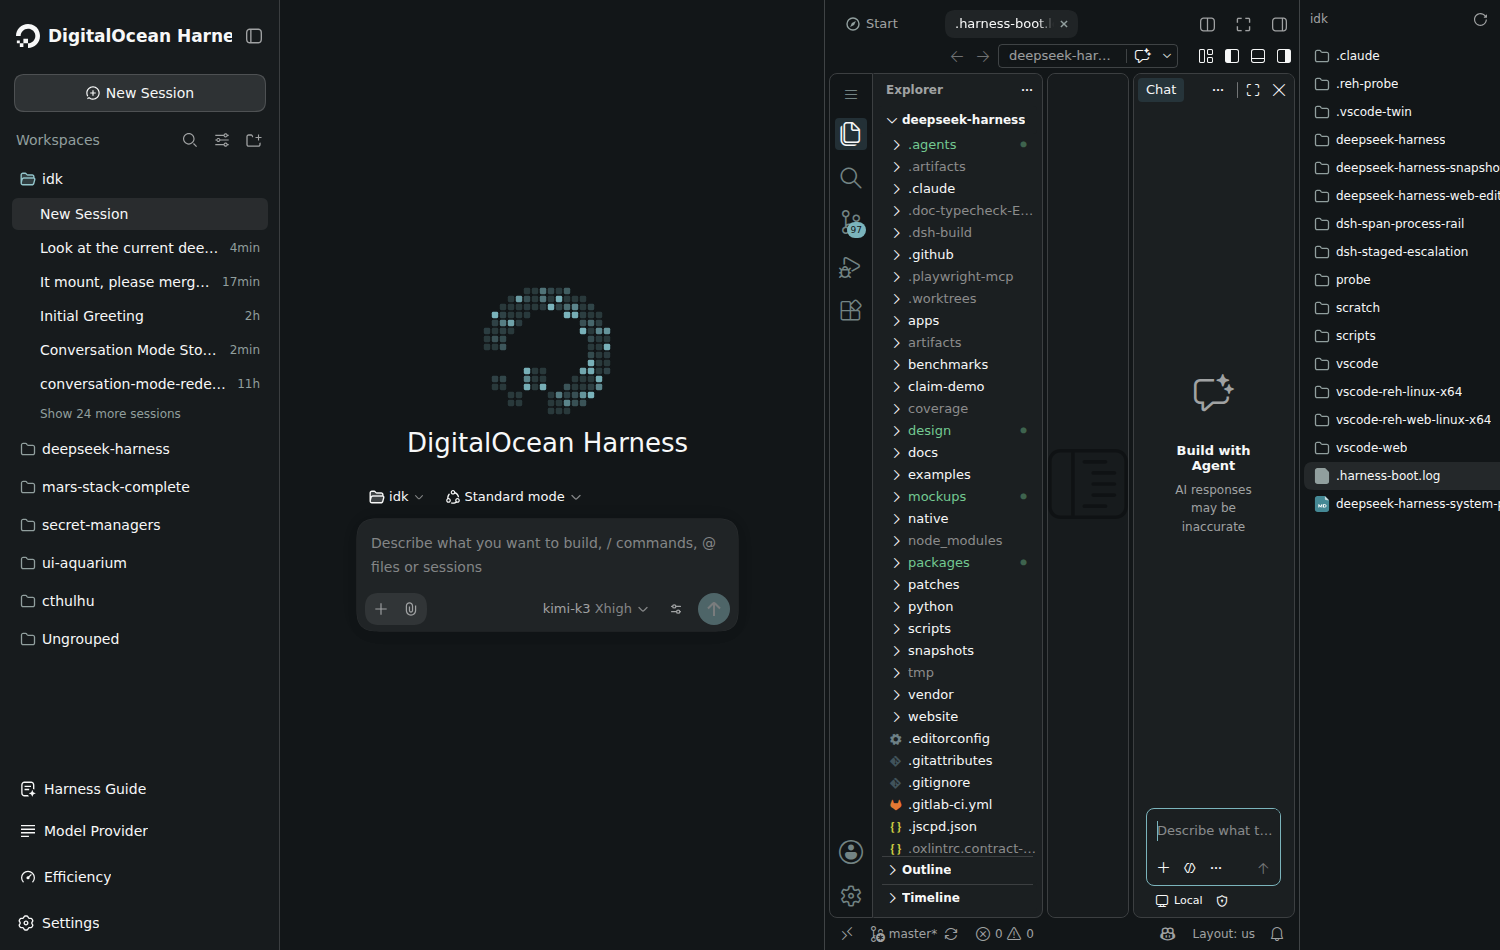
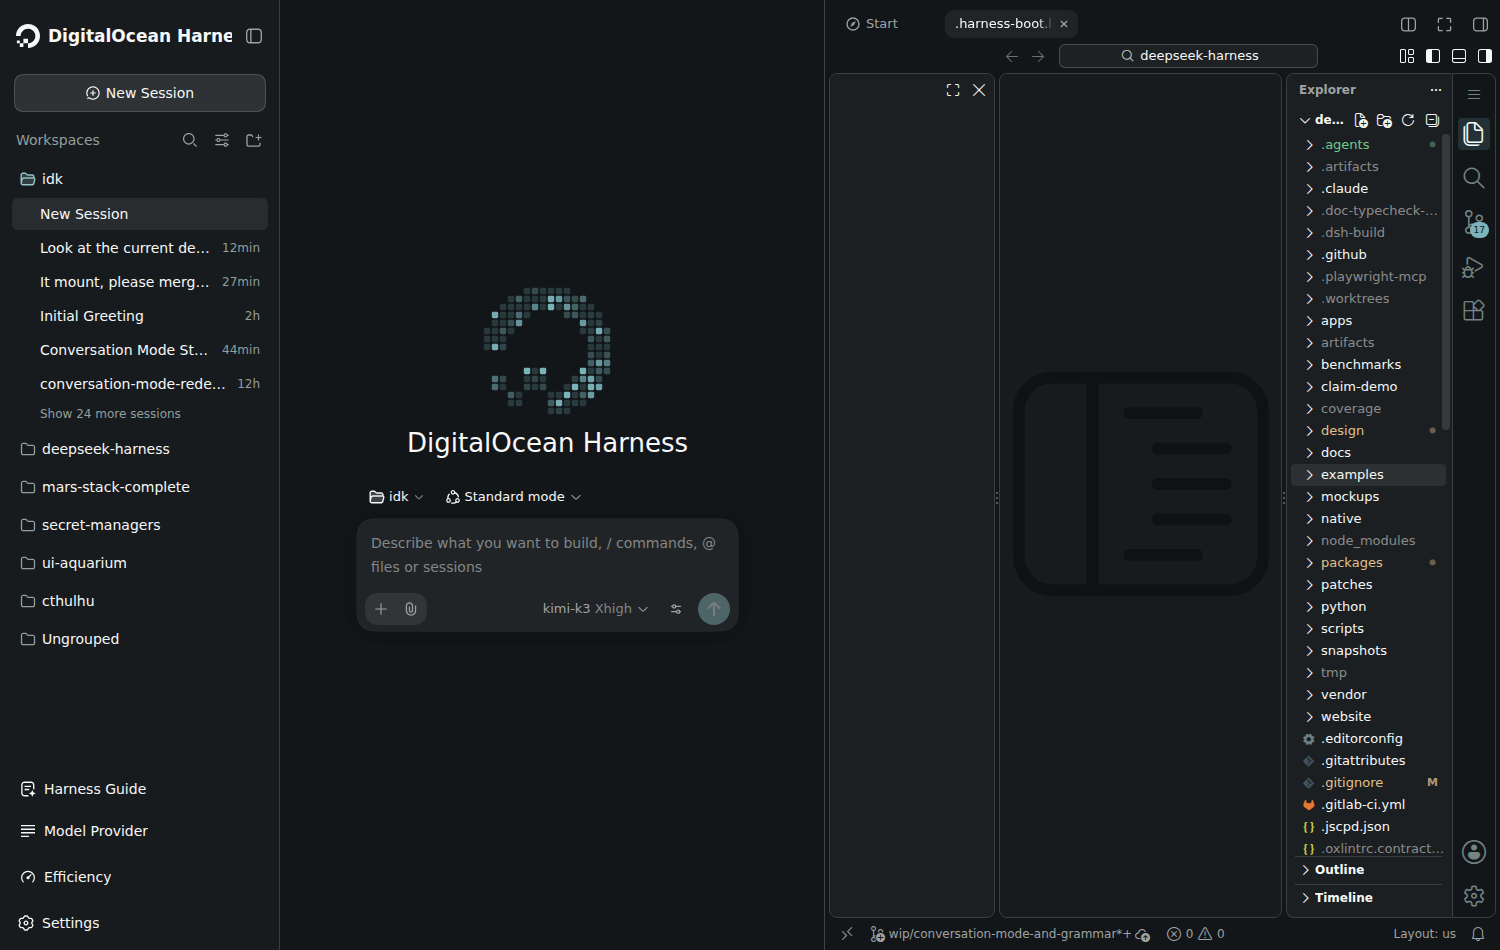
feat(ide): round-2 DO chrome — depth, no chat, right sidebar, twinkle seam
Twin identity second pass, informed by review of the first skin:

- twin-theme: hairline dividers (6%) and half-alpha focus rings replace the
  stock heavy outlines; breadcrumbs/sticky-scroll/peekView pick up the
  harness depth scale; menu/quickInput match the module platform.
- Editor-only twin: chat.disableAIFeatures + hidden agents pill + hidden aux
  bar — the harness is the conversation, the twin is the editor.
- Sidebar right: position is stored UI state, so the staged extension gains
  a onStartupFinished boot script (extension.cjs) that fires the
  deterministic workbench.action.moveSideBarRight once per profile and
  records it in globalState; manual moves win after that.
- ui-sidebar-right: the sidebar.right.explorer column empties itself while
  a vscode tab is mounted in the session — the twin's own tree takes over
  and the harness tree returns when the last vscode tab closes.
- ui-vscode: the boot seam is a DO twinkle hero (PixelLoader twinkle over
  the wordmark) for the spawn window instead of a bare text line; adds the
  ui-primitives dev link.
- design/: refreshed after/context captures + new boot-seam capture; note
  documents the round-2 moves.
- chore: deepen src-artifact ignore patterns to nested package layouts.

Live verification on this tree: 152 client specs green; DOM probes show
activity rail on the right, no chat view containers/aux bar, explorer gate
toggles with tab mount, wordmark seam renders before iframe paint.

diff --git a/packages/api/ide/src/twin-theme.ts b/packages/api/ide/src/twin-theme.ts
@@ -61,21 +61,25 @@ export const DO_THEME_COLORS: Record<string, string> = {
   'editor.lineHighlightBackground': '#f7f8f80a',
   'editor.selectionBackground': '#2e434bcc',
   'editorCursor.foreground': '#7bb4bc',
-  'editorGroup.border': '#f7f8f81f',
+  'editorGroup.border': '#f7f8f80f',
   'editorGroupHeader.background': '#121618',
   'editorLineNumber.foreground': '#738484',
   'editorLineNumber.activeForeground': '#f7f8f8',
   'editorWidget.background': '#25292a',
-  'editorWidget.border': '#f7f8f81f',
+  'editorWidget.border': '#f7f8f80f',
+  'editorStickyScroll.background': '#121618',
+  'breadcrumb.background': '#121618',
+  'peekViewEditor.background': '#202426',
   // Tabs read like the harness tab strip: dark chip, active ink edge.
   'tab.activeBackground': '#171b1d',
   'tab.activeForeground': '#f7f8f8',
-  'tab.activeBorderTop': '#7bb4bc',
+  'tab.activeBorderTop': '#7bb4bc80',
   'tab.inactiveBackground': '#121618',
   'tab.inactiveForeground': '#a0a2a3',
   'tab.border': '#12161800',
-  // Controls: brand accent is #7bb4bc; selections use multi-select slate.
-  'focusBorder': '#7bb4bc',
+  // Controls: brand accent is #7bb4bc — rings ride it at half alpha, closer
+  // to the harness hairline than the stock heavy outline.
+  'focusBorder': '#7bb4bc80',
   'badge.background': '#7bb4bc',
   'badge.foreground': '#121618',
   'button.background': '#2e434b',
@@ -84,16 +88,20 @@ export const DO_THEME_COLORS: Record<string, string> = {
   'button.secondaryBackground': '#25292a',
   'button.secondaryForeground': '#f7f8f8',
   'dropdown.background': '#25292a',
-  'dropdown.border': '#f7f8f81f',
+  'dropdown.border': '#f7f8f80f',
   'input.background': '#1b1f21',
-  'input.border': '#f7f8f81f',
+  'input.border': '#f7f8f80f',
+  'menu.background': '#25292a',
+  'menu.border': '#f7f8f80f',
+  'menu.foreground': '#f7f8f8',
+  'quickInput.background': '#25292a',
   'list.activeSelectionBackground': '#2e434b',
   'list.activeSelectionForeground': '#f7f8f8',
   'list.focusBackground': '#2e434b',
   'list.hoverBackground': '#ffffff14',
   'list.inactiveSelectionBackground': '#2e434b99',
   'notification.background': '#25292a',
-  'notification.border': '#f7f8f81f',
+  'notification.border': '#f7f8f80f',
   'scrollbarSlider.background': '#ffffff1f',
   'scrollbarSlider.hoverBackground': '#ffffff29',
   'scrollbarSlider.activeBackground': '#ffffff38',
@@ -148,6 +156,16 @@ export const TWIN_CONFIGURATION_DEFAULTS: Record<string, unknown> = {
   'update.mode': 'none',
   'extensions.autoCheckUpdates': false,
   'extensions.autoUpdate': false,
+  // No chat in the twin: the harness IS the conversation. The master kill
+  // hides the pane + inline hint; the agents pill and the empty auxiliary
+  // bar are their own settings and need these two besides.
+  'chat.disableAIFeatures': true,
+  'chat.agentsControl.enabled': 'hidden',
+  'workbench.secondarySideBar.defaultVisibility': 'hidden',
+  // Tree hugs the frame edge the harness puts us on: sidebar rides right —
+  // position is stored UI state there, so `extension.cjs` fires the
+  // deterministic command once per profile instead of a setting here.
+  'workbench.sideBar.location': 'right', // deprecated to UI state; see TWIN_EXTENSION_BOOT
   // Typography: the harness code stack and size, sober line highlight.
   'editor.fontFamily': "'SF Mono', 'JetBrains Mono', 'Fira Code', Consolas, 'Liberation Mono', Menlo, Courier, 'PingFang SC', 'Microsoft YaHei'",
   'editor.fontSize': 13,
@@ -168,6 +186,8 @@ export function twinThemeManifest(): unknown {
     version: TWIN_THEME_EXTENSION_VERSION,
     engines: { vscode: '^1.85.0' },
     categories: ['Themes'],
+    main: './extension.cjs',
+    activationEvents: ['onStartupFinished'],
     contributes: {
       configurationDefaults: TWIN_CONFIGURATION_DEFAULTS,
       themes: [
@@ -201,5 +221,23 @@ export async function stageTwinTheme(extensionsDir: string): Promise<string> {
   await mkdir(join(dir, 'themes'), { recursive: true })
   await writeFile(join(dir, 'package.json'), `${JSON.stringify(twinThemeManifest(), null, 2)}\n`, 'utf8')
   await writeFile(join(dir, 'themes', 'do-harness-dark-color-theme.json'), `${JSON.stringify(twinThemeFile(), null, 2)}\n`, 'utf8')
+  await writeFile(join(dir, 'extension.cjs'), TWIN_EXTENSION_BOOT, 'utf8')
   return dir
 }
+
+/**
+ * The one-once layout nudge: side bar lives as stored UI state (not config),
+ * so configuration defaults cannot put it right — a deterministic command
+ * can. Fires once per user profile; later manual moves are theirs again.
+ */
+export const TWIN_EXTENSION_BOOT = String.raw`'use strict';
+const vscode = require('vscode')
+
+function activate(context) {
+  if (context.globalState.get('dsh.do-harness.sideBarRight') === true) return
+  void vscode.commands.executeCommand('workbench.action.moveSideBarRight')
+  void context.globalState.update('dsh.do-harness.sideBarRight', true)
+}
+
+module.exports = { activate }
+`

diff --git a/packages/client/ui-vscode/src/client/VscodeBody.tsx b/packages/client/ui-vscode/src/client/VscodeBody.tsx
@@ -10,6 +10,7 @@
  */
 import { useEffect, useMemo, useState } from 'react'
 import type { ReactNode } from 'react'
+import { DigitalOceanLogo, PixelLoader } from '@deepseek-ai/dsh-client-ui-primitives'
 import type { RemoteResult } from '@deepseek-ai/dsh-api-remotes/client'
 import type { InjectFace, PropsLocale, PropsRuntime } from '@deepseek-ai/dsh-client-ui-slots'
 import type { SessionId } from '@deepseek-ai/dsh-session/types'
@@ -44,20 +45,51 @@ const FRAME_STYLE = {
   background: 'var(--dsw-alias-bg-base, #121618)',
 } as const
 
-/** State output dressed like the harness quiet-ink placeholder. */
-const STATE_STYLE = {
+/** The boot hero: twinkle mark stacked on the wordmark, state line below. */
+const HERO_STYLE = {
   display: 'flex',
+  flexDirection: 'column',
   alignItems: 'center',
   justifyContent: 'center',
+  gap: '14px',
   width: '100%',
   height: '100%',
   padding: '16px',
   boxSizing: 'border-box',
   background: 'var(--dsw-alias-bg-base, #121618)',
-  color: 'var(--dsw-alias-label-secondary, #a0a2a3)',
-  fontSize: '13px',
-  textAlign: 'center',
 } as const
+
+const WORDMARK_STYLE = {
+  color: 'var(--dsw-alias-label-primary, #f7f8f8)',
+  fontSize: '12px',
+  fontWeight: 600,
+  letterSpacing: '0.06em',
+  textTransform: 'uppercase',
+} as const
+
+const DETAIL_STYLE = {
+  color: 'var(--dsw-alias-label-secondary, #a0a2a3)',
+  fontSize: '12px',
+  textAlign: 'center',
+  maxWidth: '32em',
+} as const
+
+/**
+ * The seam the user watches every time the twin spawns: the DO twinkle mark
+ * centered over the wordmark with the state line — the same loading canvas
+ * the harness boot page paints, instead of a bare text line on stock chrome.
+ */
+function BootHero({ line, spinning = false }: { readonly line: string; readonly spinning?: boolean }): ReactNode {
+  return (
+    <div style={HERO_STYLE}>
+      {spinning
+        ? <PixelLoader mode="twinkle" grid={16} size={128} />
+        : <DigitalOceanLogo size={64} />}
+      <div style={WORDMARK_STYLE}>DigitalOcean Harness</div>
+      <output style={DETAIL_STYLE}>{line}</output>
+    </div>
+  )
+}
 
 export function VscodeBody({ useTabInfo, status, t }: VscodeBodyProps): ReactNode {
   const { tab } = useTabInfo()
@@ -89,10 +121,15 @@ export function VscodeBody({ useTabInfo, status, t }: VscodeBodyProps): ReactNod
     }
   }, [sessionId, status])
 
-  if (state === undefined) return <output style={STATE_STYLE}>{t('state.opening')}</output>
-  if (state.enabled !== true) return <output style={STATE_STYLE}>{t('state.unavailable')}</output>
+  if (state === undefined) return <BootHero line={t('state.opening')} spinning />
+  if (state.enabled !== true) return <BootHero line={t('state.unavailable')} />
   if (state.ready !== true || state.url === null || state.tkn === null) {
-    return <output style={STATE_STYLE}>{t(state.detail === null ? 'state.opening' : 'state.failed', { detail: state.detail ?? '' })}</output>
+    return (
+      <BootHero
+        line={t(state.detail === null ? 'state.opening' : 'state.failed', { detail: state.detail ?? '' })}
+        spinning={state.detail === null}
+      />
+    )
   }
   const folder = state.workspaceRoot === null ? '' : `&folder=${encodeURIComponent(state.workspaceRoot)}`
   return (

diff --git a/packages/api/ide/tests/twin-theme.host.spec.ts b/packages/api/ide/tests/twin-theme.host.spec.ts
@@ -37,6 +37,8 @@ describe('stageTwinTheme', () => {
       name: string
       publisher: string
       engines: { vscode: string }
+      main?: string
+      activationEvents?: string[]
       contributes: {
         configurationDefaults: Record<string, unknown>
         themes: Array<{ label: string; uiTheme: string; path: string }>
@@ -71,6 +73,28 @@ describe('stageTwinTheme', () => {
     expect(TWIN_CONFIGURATION_DEFAULTS['editor.minimap.enabled']).toBe(false)
     expect(String(TWIN_CONFIGURATION_DEFAULTS['editor.fontFamily'])).toContain('SF Mono')
     expect(String(TWIN_CONFIGURATION_DEFAULTS['window.title'])).not.toContain('${appName}')
+  })
+
+  it('the twin is editor-only: chat surfaces and the aux bar are gone, tree on the right', async () => {
+    expect(TWIN_CONFIGURATION_DEFAULTS['chat.disableAIFeatures']).toBe(true)
+    expect(TWIN_CONFIGURATION_DEFAULTS['chat.agentsControl.enabled']).toBe('hidden')
+    expect(TWIN_CONFIGURATION_DEFAULTS['workbench.secondarySideBar.defaultVisibility']).toBe('hidden')
+    expect(DO_THEME_COLORS['focusBorder']).toBe('#7bb4bc80')
+  })
+
+  it('fires the deterministic side-bar-right command once per profile', async () => {
+    const dir = await extsDir()
+    const staged = await stageTwinTheme(dir)
+    const manifest = JSON.parse(await readFile(join(staged, 'package.json'), 'utf8')) as {
+      main?: string
+      activationEvents?: string[]
+    }
+    expect(manifest.main).toBe('./extension.cjs')
+    expect(manifest.activationEvents).toContain('onStartupFinished')
+    const boot = await readFile(join(staged, 'extension.cjs'), 'utf8')
+    expect(boot).toContain('workbench.action.moveSideBarRight')
+    expect(boot).toContain('dsh.do-harness.sideBarRight')
+    expect(boot).toContain('globalState')
   })
 
   it('workbench colors stay hex so the theme file loads clean', async () => {

diff --git a/packages/client/ui-sidebar-right/src/client/shell/SidebarRight.tsx b/packages/client/ui-sidebar-right/src/client/shell/SidebarRight.tsx
@@ -295,6 +295,10 @@ function PanelChrome({ sessionId, fullscreen, autoFullscreen, actions, t }: Pick
 function SidebarPanel(panel: PanelProps & { width: number; panelRef: RefObject<HTMLDivElement> }): ReactNode {
   const { sessionId, surface, actions, t, renderSlot, openTab, width, reportRoom, fullscreen, autoFullscreen, panelRef } = panel
   const { expanded } = surface.layout
+  // A mounted vscode tab brings the twin's own Explorer; the harness tree
+  // would double the file traversal, so this column goes away with it and
+  // returns the moment the last vscode tab closes.
+  const vsMounted = Object.values(surface.layout.tabs).some(tab => tab.kind === 'vscode')
   return (
     <div
       ref={panelRef}
@@ -327,9 +331,11 @@ function SidebarPanel(panel: PanelProps & { width: number; panelRef: RefObject<H
             onRoom={reportRoom}
           />
         </div>
-        <div className={css.explorer} data-sidebar-right-explorer>
-          {renderSlot('sidebar.right.explorer', {})}
-        </div>
+        {!vsMounted && (
+          <div className={css.explorer} data-sidebar-right-explorer>
+            {renderSlot('sidebar.right.explorer', {})}
+          </div>
+        )}
       </div>
     </div>
   )

diff --git a/packages/api/ide/README.md b/packages/api/ide/README.md
@@ -23,14 +23,22 @@ Each spawn restages the DigitalOcean identity as a small extension
 (`dsh.do-harness`) under the twin's own `--extensions-dir` (`dist/.dsh/exts/`):
 a `configurationDefaults` row the REH-web workbench actually reads (DO default
 theme, harness code-font stack, hushed chrome — no Welcome walkthrough, no
-Restricted Mode banner, no telemetry or update prompts, the `Code - OSS` tail
-off the window title), plus a first-class `DO Harness Dark` theme carrying the
-bluish palette and the harness shiki syntax colors. This channel exists
-because the REH-web workbench keeps user settings in browser IndexedDB, not
-server-side files — seeding `User/settings.json` never reached the workbench.
+Restricted Mode banner, no telemetry or update prompts, no chat surfaces
+(`chat.disableAIFeatures` + hidden agents pill + hidden aux bar — the harness
+is the conversation), the `Code - OSS` tail off the window title), plus a
+first-class `DO Harness Dark` theme carrying the bluish palette and the
+harness shiki syntax colors, with hairline dividers and half-alpha focus
+rings in the harness's quiet-ink language. This channel exists because the
+REH-web workbench keeps user settings in browser IndexedDB, not server-side
+files — seeding `User/settings.json` never reached the workbench.
 The spawn also passes `--disable-workspace-trust` and `--disable-telemetry`
-for the chrome that flags own. Registry defaults stay registry defaults: the
-twin's own Settings UI still wins over every key. See `src/twin-theme.ts`.
+for the chrome that flags own. The side bar rides right: its position is
+stored UI state, not config, so the staged extension runs a one-time boot
+script (`extension.cjs`, `onStartupFinished`) firing the deterministic
+`workbench.action.moveSideBarRight` command and landing it in the profile's
+global state — later manual moves win. Registry defaults otherwise stay
+registry defaults: the twin's own Settings UI still wins over every key. See
+`src/twin-theme.ts`.
 
 The browser-origin persistence story lives next door: the workbench's
 IndexedDB is origin-keyed, so the twin's port is pinned per dist

diff --git a/design/vscode-twin-do-theme.md b/design/vscode-twin-do-theme.md
@@ -9,7 +9,22 @@ viewport, headless Chromium through `probe/twin-shot.mjs`.
 |---|---|---|
 | Before | `vscode-twin-before.png` | stock twin, fresh `--user-data-dir`/exts
 | After | `vscode-twin-after.png` | same product, `dsh.do-harness` extension staged into `--extensions-dir`, `--disable-workspace-trust --disable-telemetry` |
+| Boot | `vscode-twin-boot.png` | the boot seam inside the pane — DO twinkle mark over the wordmark before the iframe lands |
 | In-situ | `vscode-twin-context.png` | the full harness page with the twin mounted in the vscode sidebar tab |
+
+## Round 2 — the five chrome moves
+
+- **Depth without float**: hairline dividers at 6% white, focus rings at half
+  alpha — the framework's quiet-ink language instead of stock walls.
+- **Chat fully out**: `chat.disableAIFeatures` + hidden agents pill + hidden
+  aux bar — the twin is an editor; the harness is the conversation.
+- **Sidebar right**: its position is stored UI state, not config, so the
+  staged extension fires the deterministic `workbench.action.moveSideBarRight`
+  once per profile and remembers it did (manual moves stay manual).
+- **No double tree**: while a vscode tab is mounted, the harness's own
+  explorer column leaves the right sidebar; it returns when the tab closes.
+- **DO twinkle seam**: the pane's boot interstitial is the DO twinkle pixel
+  mark under the wordmark, in the harness boot page's language.
 
 ## What the identity does
 
